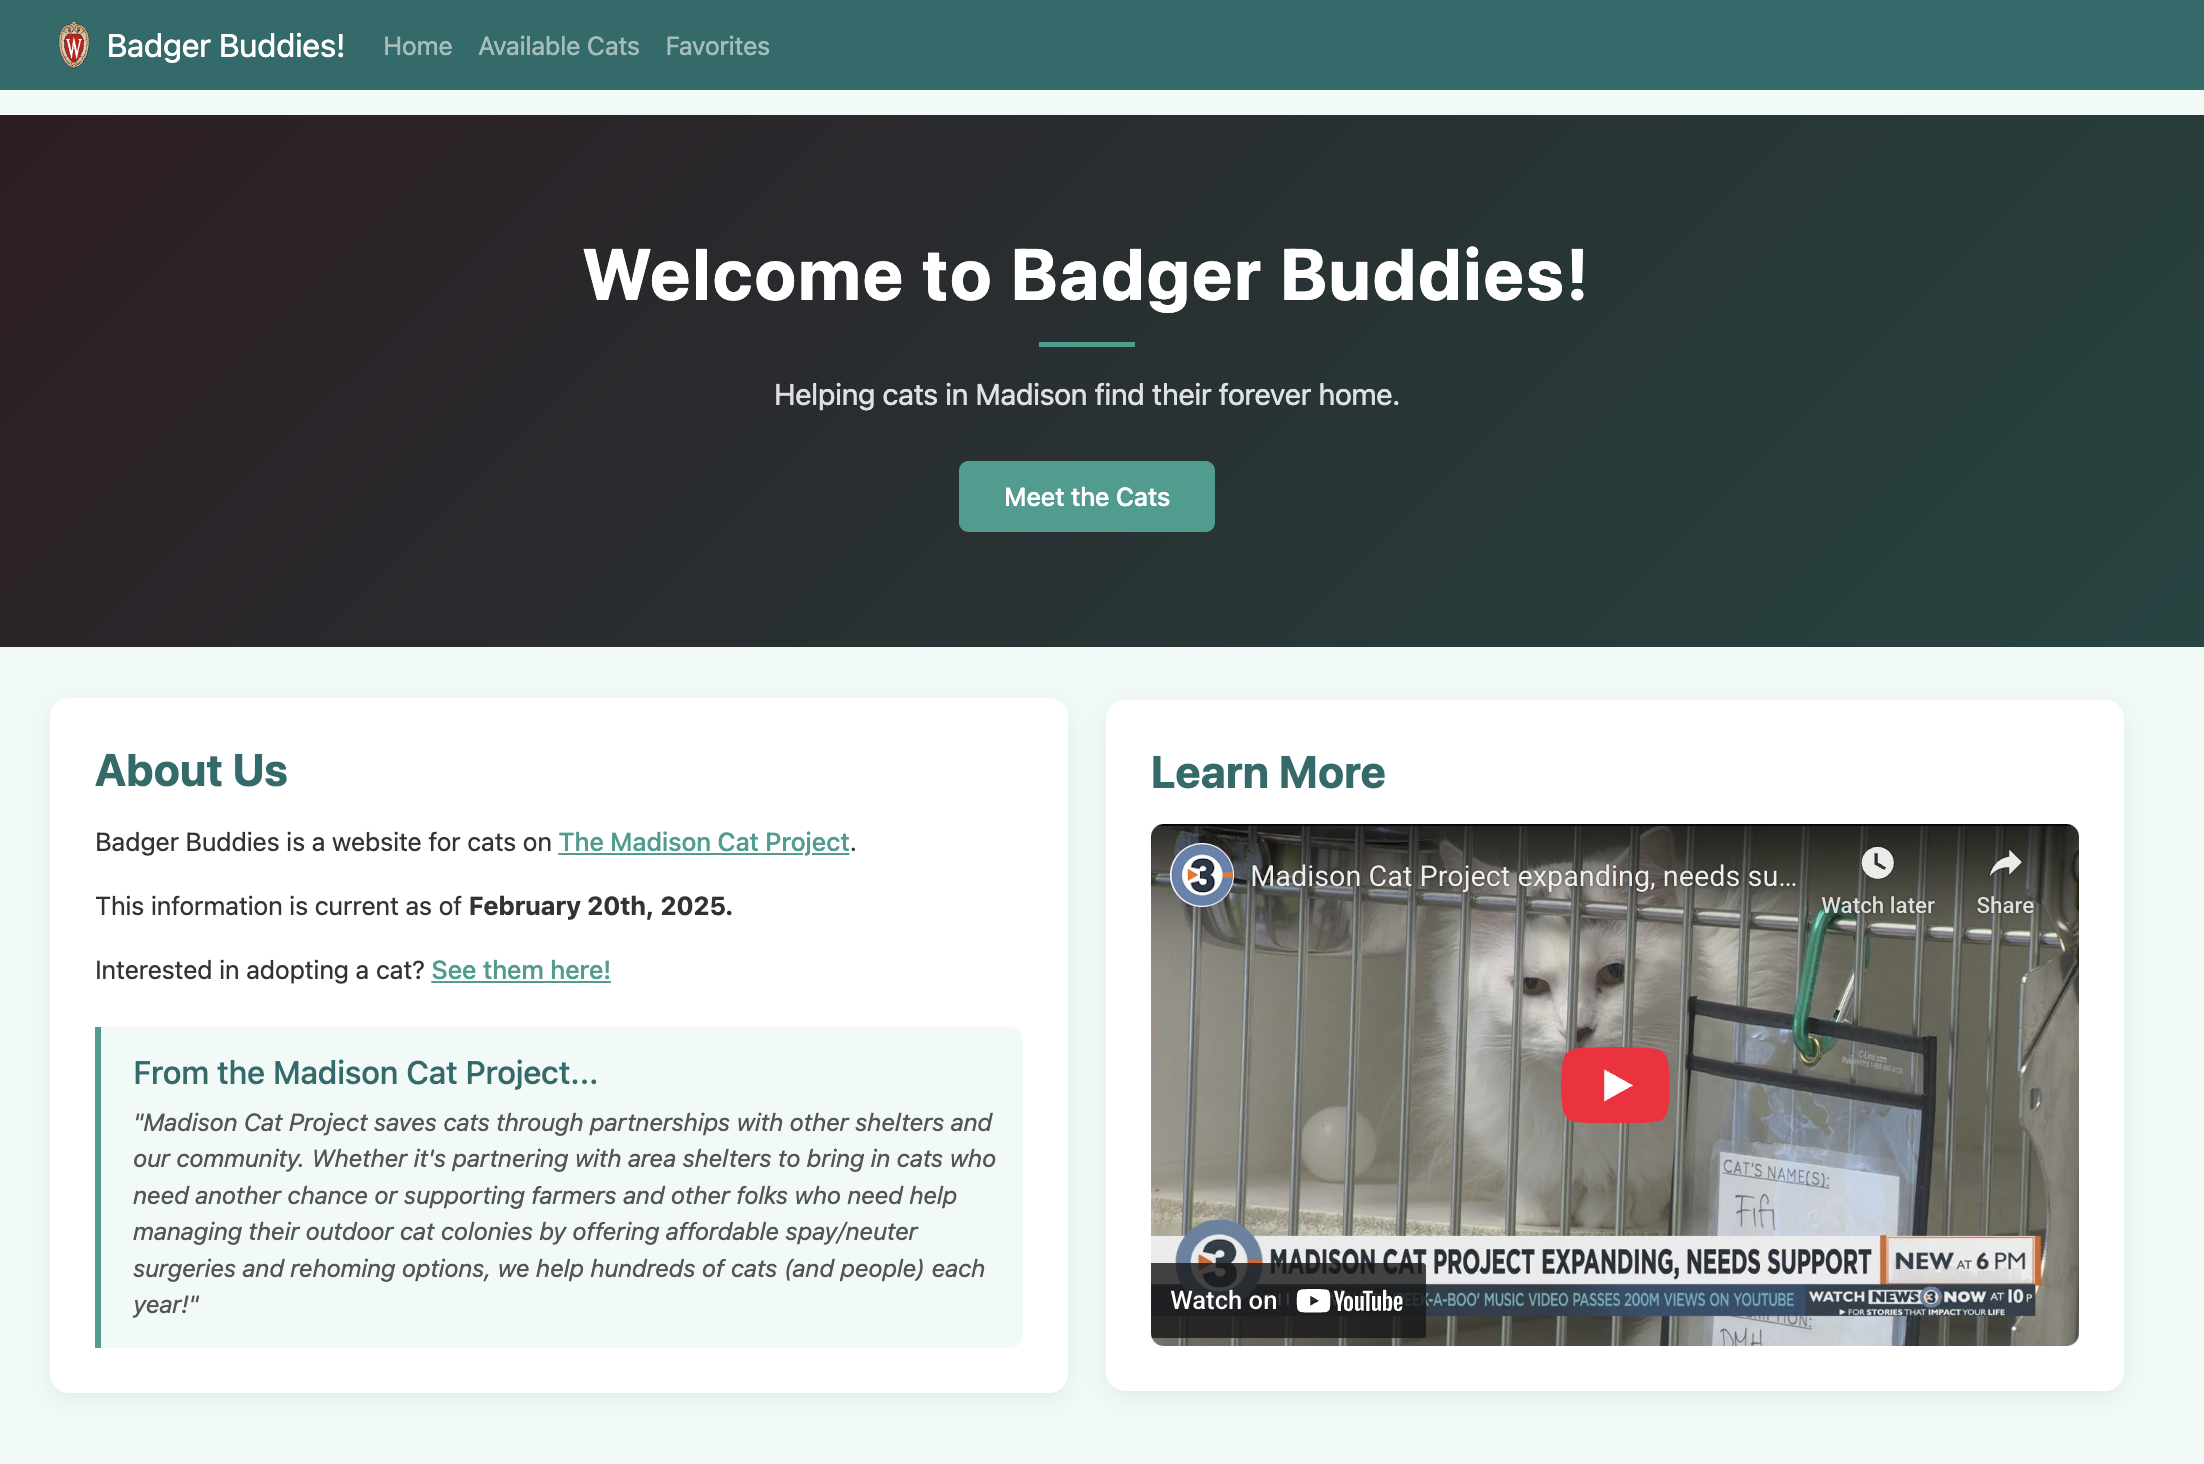
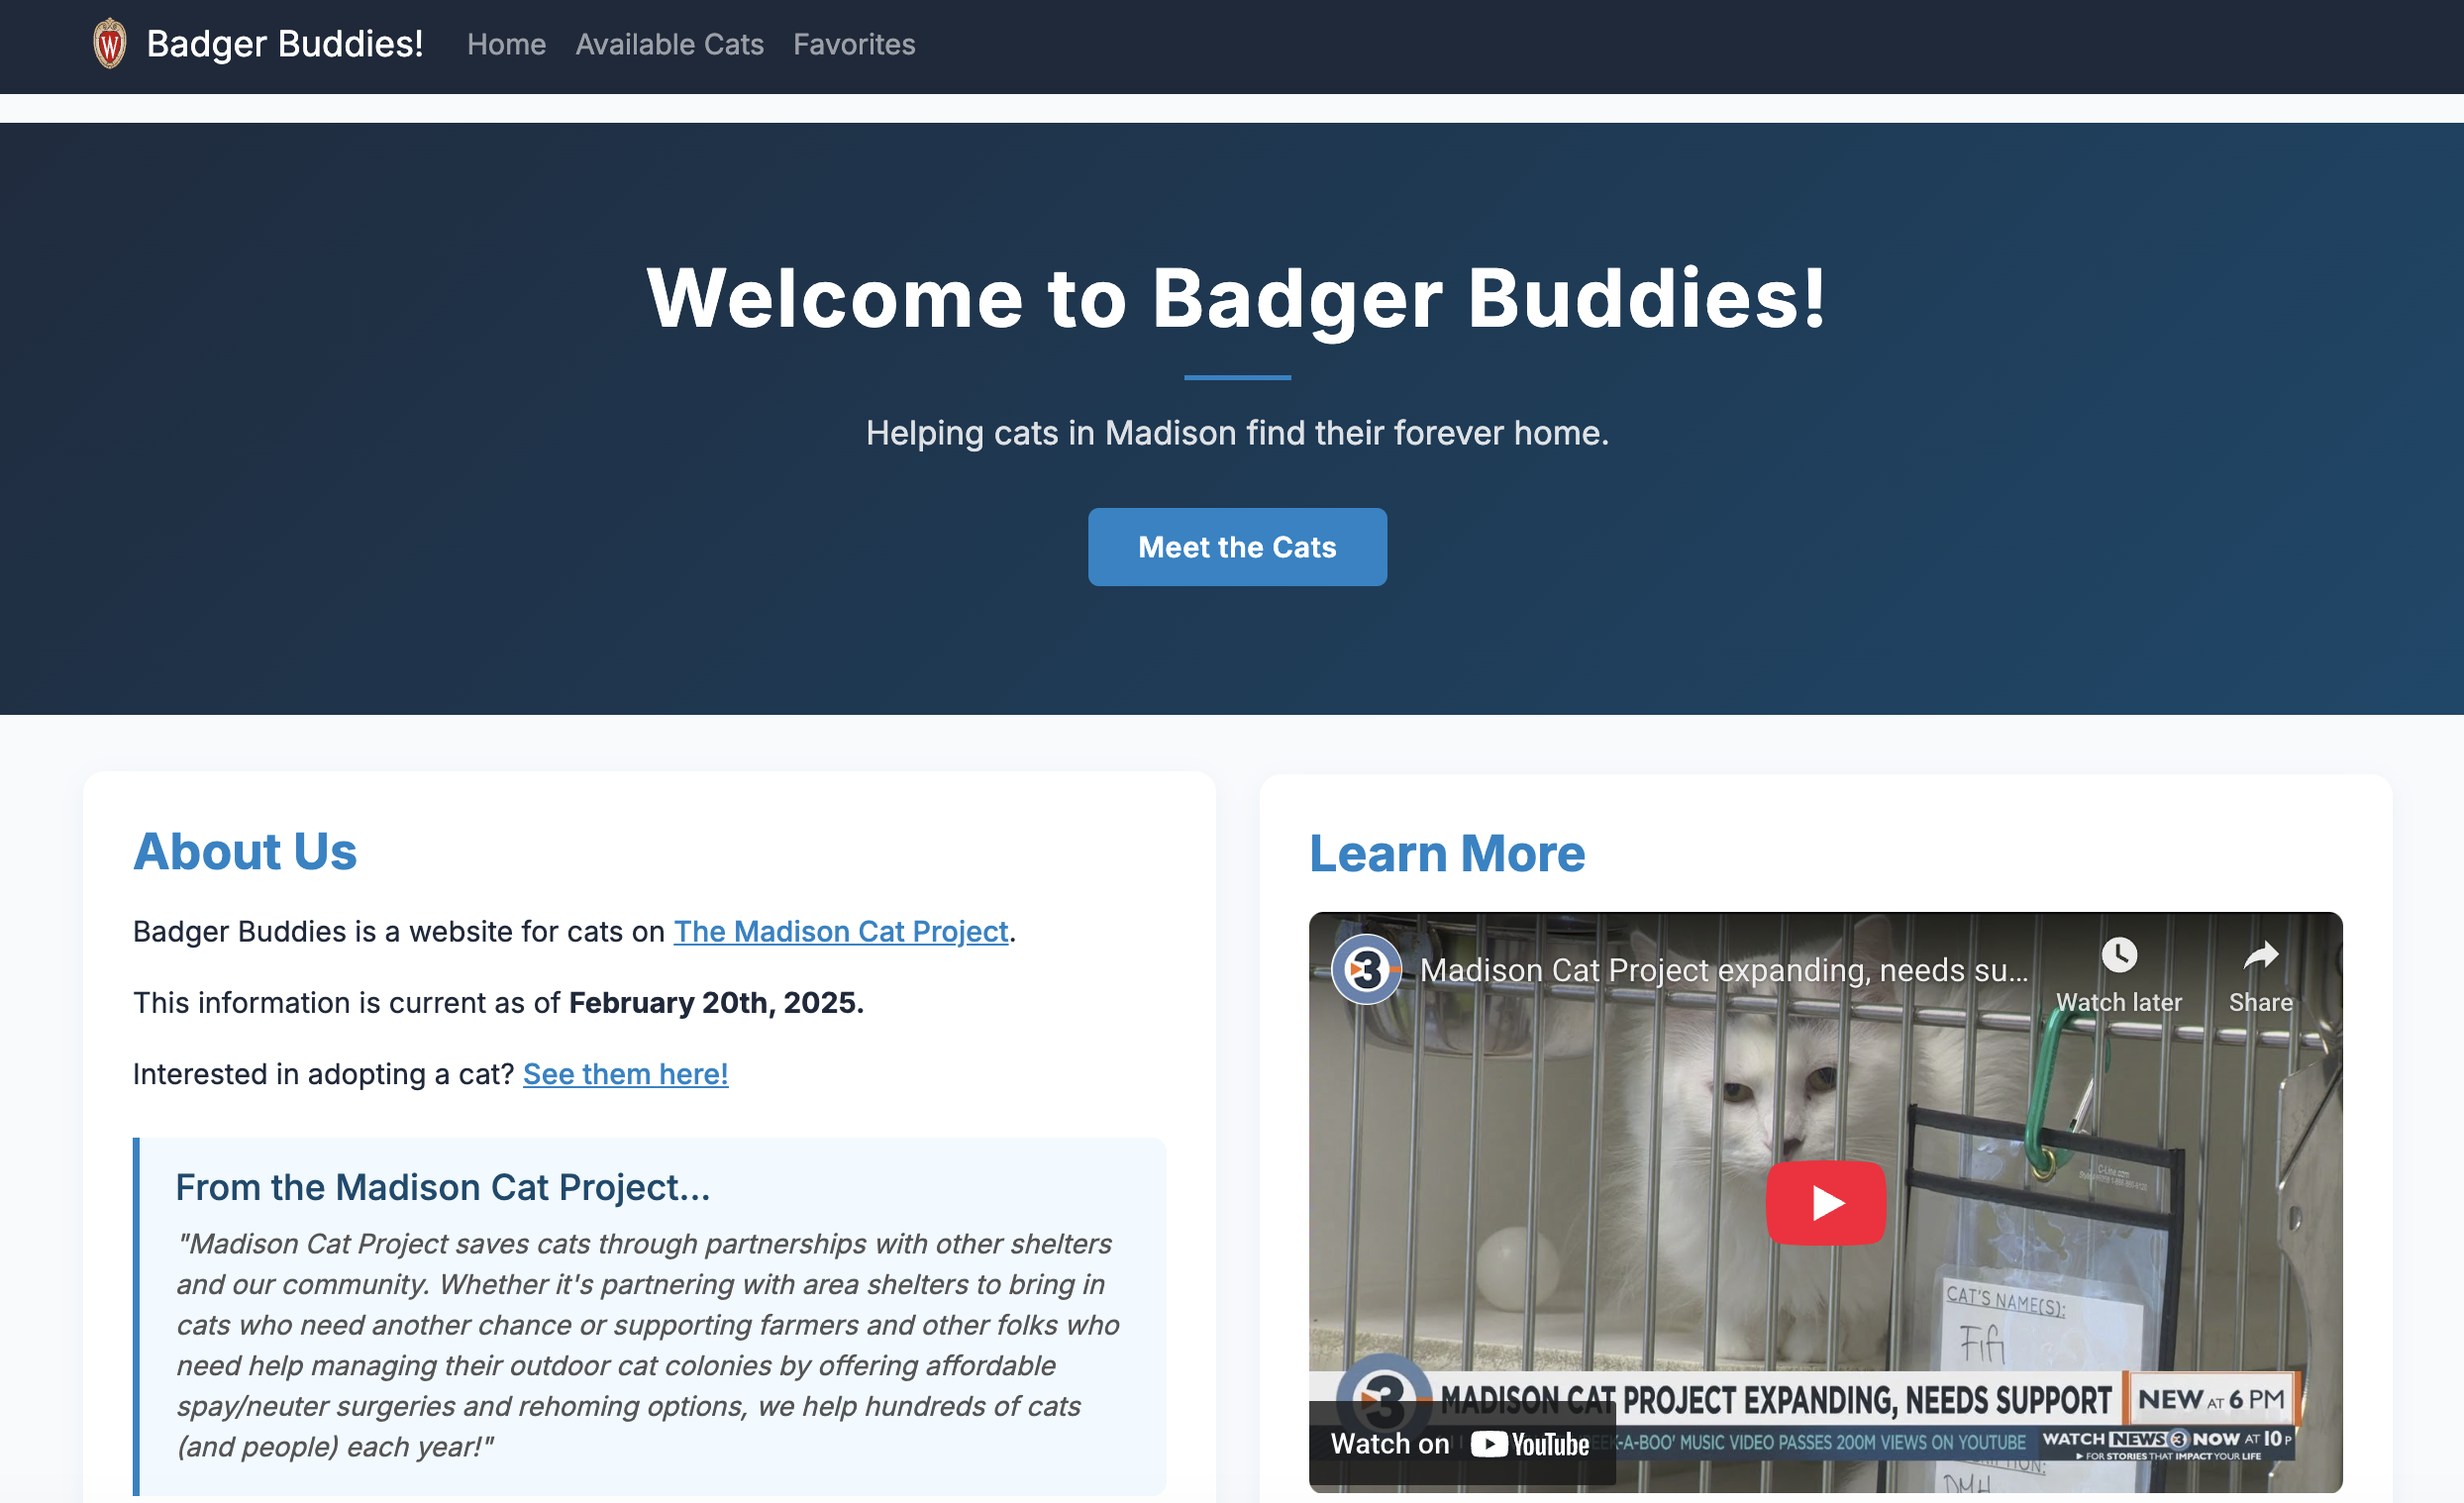
updated mad bites case study

diff --git a/src/data/projects.js b/src/data/projects.js
@@ -5,7 +5,7 @@ const projects = [
     title: 'Mad Bites - Mobile UX Design',
     image: '../../images/madbites_thumbnail.png',
     description:
-      'Connecting Madison’s food trucks with hungry locals in real time, Mad Bites simplifies ordering, socializing, and discovering the best street eats. Designed end-to-end from user research through high-fidelity prototypes.',
+      'Connecting Madison\'s food trucks with hungry locals in real time, Mad Bites simplifies ordering, socializing, and discovering the best street eats. Designed end-to-end from user research through high-fidelity prototypes.',
     tags: ['UX Research', 'Figma', 'Usability Testing', 'Mobile Design', 'Prototyping'],
     github: null,
     demo: null,
@@ -16,7 +16,7 @@ const projects = [
     inspirationImage: { src: '../../images/madbites-inspiration.jpg', caption: 'Library Mall Food Trucks' },
     inspiration: 'The wait times are a major issue with the food truck ordering system in Madison. Throughout my four years of my undergraduate degree, I had tried multiple times to order one of the iconic giant spring rolls that Fresh Cool Drinks is known for but had to leave the line every attempt before ordering because of the extreme wait times. With only 15 minutes in between classes, it was impossible to stop and get something to eat. Our shared issues with ordering from the library mall food trucks was what inspired this application.',
     overview:
-      'Fresh Flavors, Zero Guesswork. Connecting Madison’s food trucks with hungry locals in real time, Mad Bites simplifies ordering, socializing, and discovering the best street eats.',
+      'Fresh Flavors, Zero Guesswork. Connecting Madison\'s food trucks with hungry locals in real time, Mad Bites simplifies ordering, socializing, and discovering the best street eats.',
     problem:
       'Locals seeking food trucks face uncertainty about hours, locations, and wait times, causing frustration and missed opportunities for both users and vendors.',
     process: [
@@ -24,46 +24,36 @@ const projects = [
         phase: 'Empathize & Define',
         summary: 'User Interviews & Research',
         detail:
-          'We began by researching the local food trucks and created an interview question guide to guide our user interviews. We conducted interviews with our classmates about their food truck experiences, ensuring to ask open-ended questions to ensure accurate answers that were not influenced by the wording of our questions. The goal was to understand pain points around food truck discovery, ordering, and social engagement. These conversations uncovered user frustrations and highlighted unmet needs, guiding our product priorities and feature set.',
+          'The biggest thing our research confirmed: users weren\'t failing to find food trucks because they weren\'t trying hard enough — they were failing because the information simply wasn\'t there. We constructed interview questions for students, professors, and downtown workers using open-ended questions to avoid leading answers. Nobody knew where trucks would be on a given day, and nobody was willing to wait in a line without knowing how long it would take.',
         bullets: [
-          'Many users cited difficulty finding operating food trucks and knowing their current locations.',
-          'Order wait times were unpredictable, leading to user frustration and walkaways.',
-          'Users expressed interest in seeing friends\' reviews and orders to help with decisions.'
+          'Users couldn\'t reliably find which trucks were operating or where — discovery was word-of-mouth or luck.',
+          'Unpredictable wait times were the #1 reason users abandoned the line entirely.',
+          'Users wanted to see what friends had ordered or reviewed — social proof lowered decision fatigue.',
         ],
-        personas: 
-          'Drawing from interviews and survey data, we defined personas that represent our core users: busy students and professors, downtown workers, and local foodies. Each persona shares a love for quick, varied street food, a need for convenience, and a desire to stay connected with friends. Their main challenges include time constraints, lack of up-to-date information, and missing out on popular food truck experiences. These personas became the north star for design decisions, helping us prioritize features and craft tailored flows.',
+        personas:
+          'From our research, 4 clear users emerged. An example of one of them is someone time-constrained, phone-first, and decision-fatigued by lunchtime. Meet Sam — a junior with 15 minutes between lectures who just wants to know if the spring roll line is worth it before she commits. Her journey map revealed a critical drop-off point: the moment she can\'t estimate the wait, she leaves. These personas became the design problem we kept returning to throughout the project.',
         images: [
-          { 
-            src: '/images/persona.jpg',
-            caption: 'Persona Example' 
-          },
-          { 
-            src: '/images/journey-map.jpg',
-            caption: 'Journey Map Example' 
-          },
         ],
       },
       {
         phase: 'Ideate',
         summary: 'Sketches & Wireframes',
         detail:
-          'During early ideation, we produced low-fidelity sketches to quickly explore navigation, map integration, and the order placement process. Sketching helped visualize how users might move from map to menu with minimal friction and allowed rapid iteration before building wireframes. Drawing out the reward and review features clarified how social elements could fit seamlessly alongside functional needs. Sharing these sketches with the team sparked discussion and aligned our vision before committing to digital designs. We spent a portion of time specifically working on sketches on aspects of the app that could potentially facilitate habitual use and variations of some of those ideas made it to our final prototype.',
-        wireframes: 'Translating sketches into wireframes, we structured clear paths for truck discovery, order management, and social engagement. Wireframes mapped out essential elements like truck cards, order status updates, and the loyalty dashboard, defining the app’s core architecture. This stage allowed us to make refinements to our architecture and revealed where extra guidance or streamlined steps were needed. Wireframes provided a blueprint and set the stage for bringing our vision into the final prototype.',
+          'We sketched fast and wide before committing to anything. The goal was to explore how a user might move from map to menu without friction and to find out where the flow naturally broke down. A few early ideas didn\'t survive this stage, which was the point: sketching is cheap, building is not. One recurring debate was around habit-forming features like loyalty rewards. We kept them in, but deliberately placed them secondary to the core ordering flow so they wouldn\'t add cognitive load on a first visit.',
+        wireframes:
+          'Wireframes let us pressure-test the architecture before touching visual design. We structured three primary paths: truck discovery, ordering, and review and mapped out how they connected. This stage surfaced a key decision: the review flow needed to be organized by truck, not chronologically, or it would be useless in the moment a user was trying to make a decision.',
         images: [
-          { 
-            caption: 'Sketches' 
-          },
-          { 
+          {
             src: '/images/wireframe-order.png',
-            caption: 'Wireframes' 
+            caption: 'Wireframe — ordering flow'
           },
           {
             src: '/images/wireframe-rewards.png',
-            caption: 'Wireframes'
+            caption: 'Wireframe — loyalty rewards'
           },
           {
             src: '/images/wireframe-profile.png',
-            caption: 'Wireframes'
+            caption: 'Wireframe — user profile'
           }
         ],
       },
@@ -71,40 +61,40 @@ const projects = [
         phase: 'Prototype',
         summary: 'High Fidelity Prototyping',
         detail:
-          'The final high-fidelity prototype presented a cleaner user flow for ordering a meal and checkout. It also met user needs for a delivery option.',
+          'Moving into high fidelity forced real decisions. We chose a dark, high-contrast visual direction to make the app feel energetic and fast — matching the street food context rather than a sterile food delivery aesthetic. Components were designed to minimize taps: truck discovery, menu browsing, and checkout were reachable in three steps from the home screen.',
         images: [
-          { 
+          {
             src: '/images/madbites-prototype.png',
-            caption: 'Ordering Page' 
+            caption: 'Ordering page'
           },
-          { 
+          {
             src: '/images/onboarding.png',
             caption: 'Onboarding'
           },
-          { 
+          {
             src: '/images/food-trucks.png',
-            caption: 'Food Trucks'
+            caption: 'Food truck discovery'
           },
-          { 
+          {
             src: '/images/order.png',
-            caption: 'Ordering'
+            caption: 'Order flow'
           },
         ],
       },
       {
         phase: 'Test',
-        summary: 'Usability Testing & Reflection',
+        summary: 'Usability Testing & Iteration',
         detail:
-          'Our group conducted one round of usability studies.  The study used a high-fidelity prototype and revealed what aspects of the mockups that needed refining and helped reduce creator blindness in our app.',
+          'Usability testing is where creator blindness gets exposed. We watched real users interact with the prototype and several patterns emerged that we hadn\'t anticipated. The things that felt obvious to us because we built them, weren\'t obvious at all to someone seeing the app for the first time.',
         findings: [
-          'Adjust the review page so that it is organized by truck, and there is more clarity as to the function of buttons on the page.',
-          'Adjust the “see reviews and ratings” to a button instead of an underlined sentence.',
-          'Instead of a red “+” button, simply allow the user to click on the image to arrive at the product page to lessen confusion.',
-          'Change the “Keep Browsing” button label to “Add More Items” to make it more clear which page you are navigating to.'
+          'Users tapped the product image expecting to open it — so we replaced the red + button with a tappable image, eliminating a confusing UI element entirely.',
+          'Users ignored the underlined "see reviews and ratings" text — they didn\'t read it as a link. We converted it to a clearly labeled button.',
+          '"Keep Browsing" confused users about where they\'d land — renaming it "Add More Items" made the destination unambiguous.',
+          'The review page felt disorganized — grouping reviews by truck rather than chronologically made them actionable at the moment of decision.',
         ],
         images: [
-          { caption: 'Usability Testing - Before' },
-          { caption: 'Usability Testing - After'}
+          { src: '/images/testing1.png', caption: 'Cart - before and after' },
+          { src: '/images/testing2.png', caption: 'Food Trucks - before and after' }
         ],
       },
     ],
@@ -128,13 +118,13 @@ const projects = [
   },
   {
     id: 2,
-    slug: 'Madison Cat Project',
+    slug: 'badger-buddies',
     title: 'Badger Buddies',
     image: '/images/mcp-thumbnail.png',
     description:
       'A cat adoption platform built for CS571 at UW-Madison showcasing real cats from The Madison Cat Project. Features browsing, search, filtering, favorites, and a detailed modal view — all built with React, React Router, and Bootstrap.',
     tags: ['React', 'React Router', 'Bootstrap', 'Context API', 'JavaScript'],
-    github: '#',
+    github: 'https://github.com/abbycarlson764/badger-buddies',
     demo: '#',
     role: 'Front End Developer',
     duration: '1 week',

diff --git a/src/pages/PostDetail.jsx b/src/pages/PostDetail.jsx
@@ -8,7 +8,7 @@ export default function PostDetail() {
   const { slug } = useParams();
   const post = posts.find(p => p.slug === slug);
 
-  if (!post) return <Navigate to="/writing" replace />;
+  if (!post) return <Navigate to="/posts" replace />;
 
   const formattedDate = new Date(post.date).toLocaleDateString('en-US', {
     year: 'numeric',
@@ -19,9 +19,9 @@ export default function PostDetail() {
   return (
     <main className="post-detail">
       <Container>
-        <Link to="/writing" className="back-btn">
+        <Link to="/posts" className="back-btn">
           <FiArrowLeft size={15} />
-          Back to Writing
+          Back to Posts
         </Link>
 
         <article className="post-article">

diff --git a/src/App.jsx b/src/App.jsx
@@ -20,8 +20,8 @@ export default function App() {
         <Route path="/projects" element={<Projects />} />
         <Route path="/projects/:slug" element={<ProjectDetail />} />
         <Route path="/about" element={<About />} />
-        <Route path="/writing" element={<Writing />} />
-        <Route path="/writing/:slug" element={<PostDetail />} />
+        <Route path="/posts" element={<Writing />} />
+        <Route path="/posts/:slug" element={<PostDetail />} />
       </Routes>
       <Footer />
     </BrowserRouter>

diff --git a/src/components/NavBar.jsx b/src/components/NavBar.jsx
@@ -23,10 +23,10 @@ export default function NavBar() {
             </Nav.Link>
             <Nav.Link
               as={NavLink}
-              to="/writing"
+              to="/posts"
               className="nav-link-custom"
             >
-              Writing
+              Posts
             </Nav.Link>
             <Nav.Link
               as={NavLink}

diff --git a/src/pages/Writing.jsx b/src/pages/Writing.jsx
@@ -9,7 +9,7 @@ export default function Writing() {
     <main className="writing-page">
       <Container>
         <h2 className="section-heading">
-          <span>Writing</span>
+          <span>Posts</span>
         </h2>
         <p className="section-subheading">
           Thoughts on design, development, and everything in between.
@@ -21,7 +21,7 @@ export default function Writing() {
           <Row xs={1} sm={2} lg={3} className="g-4">
             {posts.map(post => (
               <Col key={post.id}>
-                <Link to={`/writing/${post.slug}`} className="post-card">
+                <Link to={`/posts/${post.slug}`} className="post-card">
                   <div className="post-card-header">
                     {post.image && <img src={post.image} alt="" className="post-card-image" />}
                   </div>

diff --git a/src/styles/index.css b/src/styles/index.css
@@ -4,11 +4,11 @@
 :root {
   --bg:        #11171e;
   --surface:   #192127;
-  --border:    #1c2127;
+  --border:    #30363d;
   --cyan:      #00e5ff;
   --purple:    #8b5cf6;
   --text:      #e6edf3;
-  --muted:     #8b949e;
+  --muted:     #c1c8d0;
   --radius:    8px;
   --transition: 0.25s ease;
 }

diff --git a/src/styles/ProjectDetail.css b/src/styles/ProjectDetail.css
@@ -270,9 +270,8 @@ details[open] .process-step-chevron {
 
 .process-step-image {
   width: 100%;
-  aspect-ratio: 16 / 9;
   display: block;
-  object-fit: cover;
+  object-fit: contain;
 }
 
 .process-step-image-placeholder {

diff --git a/src/pages/ProjectDetail.jsx b/src/pages/ProjectDetail.jsx
@@ -174,7 +174,7 @@ export default function ProjectDetail() {
                 </a>
               )}
               {project.github && (
-                <a href={project.github} className="detail-link-btn secondary" target="_blank" rel="noreferrer">
+                <a href={project.github} className="detail-link-btn primary" target="_blank" rel="noreferrer">
                   <FiGithub size={15} /> View Code
                 </a>
               )}